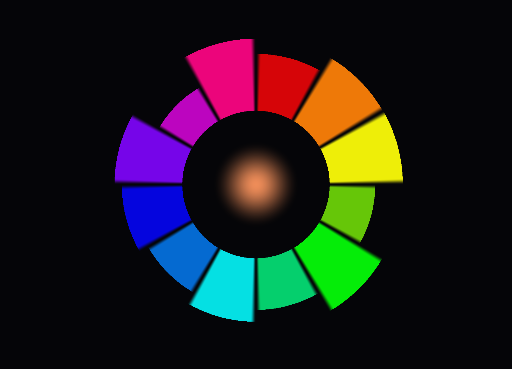
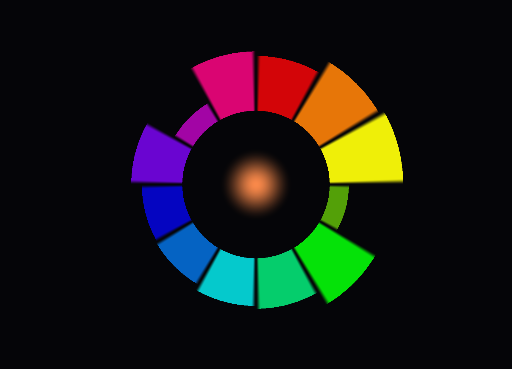
Web deploy: siljangnim.vercel.app runs the studio
- Root Directory studio, scene on siljangnim-scene.vercel.app (VITE_SCENE_ORIGIN), previews use the
  deployment URL as scene origin; .vercelignore limits CLI uploads to studio/ and examples/
- LLM function: one api/llm.js behind a rewrite (catch-all file names don't route in a Vite project)
- Meyda and Tone.js load as esm.sh bundles (the dependency chain was slow to arrive)
- docs: M3 complete; README web section

diff --git a/studio/server/llmForward.js b/studio/server/llmForward.js
@@ -2,7 +2,7 @@
 //
 // Used by the Vite dev server, by the desktop main process (which passes
 // `getKey` so API keys never reach the renderer) and by the web deploy's
-// function (api/llm/[...path].js, through webForward). Web-standard Request
+// function (api/llm.js, through webForward). Web-standard Request
 // in, Response out, streaming bodies passed straight through.
 //
 //   /api/llm/anthropic/<path>  → https://api.anthropic.com/<path>
@@ -91,6 +91,13 @@ export async function forwardLlmRequest(request, options = {}) {
  */
 export async function webForward(request) {
   const url = new URL(request.url);
+  // vercel.json rewrites /api/llm/<path> to this one function with ?__path=<path>.
+  const rewritten = url.searchParams.get("__path");
+  if (rewritten !== null) {
+    url.searchParams.delete("__path");
+    url.pathname = LLM_PREFIX + rewritten;
+    request = new Request(url, { method: request.method, headers: request.headers, body: request.method === "POST" ? await request.arrayBuffer() : undefined });
+  }
   const origin = request.headers.get("origin");
   const site = request.headers.get("sec-fetch-site");
   const sameOrigin = origin ? origin === url.origin : site === "same-origin";

diff --git a/studio/src/app/llmForward.test.ts b/studio/src/app/llmForward.test.ts
@@ -45,4 +45,13 @@ describe("web LLM forwarder", () => {
     const res = await forwardLlmRequest(request("openai/chat/completions", { "x-llm-base-url": "http://localhost:11434/v1" }));
     expect(res.status).toBe(200);
   });
+
+  it("takes the path the Vercel rewrite passes in __path, keeping other query parameters", async () => {
+    vi.stubGlobal("fetch", upstream);
+    const req = new Request("https://studio.example/api/llm?__path=anthropic/v1/messages&beta=true", { method: "POST", headers: { origin: "https://studio.example" }, body: "{}" });
+    expect((await webForward(req)).status).toBe(401); // routed; no key given
+    const withKey = new Request("https://studio.example/api/llm?__path=anthropic/v1/messages&beta=true", { method: "POST", headers: { origin: "https://studio.example", "x-api-key": "k" }, body: "{}" });
+    expect((await webForward(withKey)).status).toBe(200);
+    expect(String(upstream.mock.calls[0]![0])).toBe("https://api.anthropic.com/v1/messages?beta=true");
+  });
 });

diff --git a/studio/vite.config.ts b/studio/vite.config.ts
@@ -66,6 +66,13 @@ function devLlmProxy(): Plugin {
   };
 }
 
+// Vercel previews: the app is opened at the branch URL and the scene runs at the
+// deployment's own unique URL, so both come from the same build on different
+// origins. Production sets VITE_SCENE_ORIGIN to its scene domain (docs/m3.md).
+if (!process.env.VITE_SCENE_ORIGIN && process.env.VERCEL_ENV === "preview" && process.env.VERCEL_URL) {
+  process.env.VITE_SCENE_ORIGIN = `https://${process.env.VERCEL_URL}`;
+}
+
 export default defineConfig({
   plugins: [react(), tailwindcss(), sceneCspPlugin(), devLlmProxy()],
   server: {

diff --git a/studio/api/llm.js b/studio/api/llm.js
@@ -1,0 +1,7 @@
+// Vercel Function for the web deploy: the studio's LLM calls (/api/llm/<provider>/<path>,
+// rewritten here by vercel.json with the path in ?__path=).
+// Keys come from the person's browser with each request; nothing is stored here.
+import { webForward } from "../server/llmForward.js";
+
+export const GET = webForward;
+export const POST = webForward;

diff --git a/README.ko.md b/README.ko.md
@@ -71,8 +71,7 @@
 - **데스크톱 앱** — macOS(Apple Silicon)와 Windows. API 키는 OS 키체인으로 암호화되고 앱 화면에는
   전달되지 않습니다. Python 런타임은 앱이 직접 관리합니다.
 
-다음: 호스팅 웹 버전을 스튜디오로 전환([studio/vercel.json](studio/vercel.json)으로 준비됨,
-[docs/m3.md](docs/m3.md#4-웹-배포-준비))하고 v1을 은퇴합니다.
+웹 버전 [siljangnim.vercel.app](https://siljangnim.vercel.app/)도 이 스튜디오입니다([docs/m3.md](docs/m3.md#4-웹-배포-전환과-v1-은퇴)).
 
 ## 다운로드
 
@@ -159,9 +158,10 @@ docs/       아키텍처와 가이드
 
 ## 웹 버전
 
-[siljangnim.vercel.app](https://siljangnim.vercel.app/)에는 아직 v1 웹 앱이 배포되어 있습니다. 새 스튜디오도
-브라우저에서 돌아가며(`npm run web`), v1 기능을 따라잡으면 웹에도 배포합니다. 로컬 런타임이 필요한
-도구(Python 패키지, CLI 앱, GPU 모델)는 데스크톱 앱에서 쓰게 됩니다.
+[siljangnim.vercel.app](https://siljangnim.vercel.app/)에서 스튜디오를 브라우저로 씁니다. API 키는 직접 넣고,
+탭의 세션 저장소에만 두며 사이트의 전달 함수를 거쳐 모델 제공사로만 갑니다. 씬은 별도 도메인에서 돕니다.
+로컬 런타임이 필요한 도구(Python 패키지, CLI 앱, GPU 모델, OSC)는 데스크톱 앱이나 MCP 클라이언트에서 씁니다.
+v1 웹 앱은 은퇴했고, v1에서 내보낸 프로젝트는 *Import v1 project*로 엽니다.
 
 ## 비용과 보안
 

diff --git a/README.md b/README.md
@@ -77,8 +77,7 @@ In the new studio (desktop app and `npm run web`):
 - **Desktop app** — macOS (Apple Silicon) and Windows. API keys are encrypted with the OS keychain and
   never reach the app window; the app manages its own Python runtime.
 
-Next: switching the hosted web version to the studio (prepared in [studio/vercel.json](studio/vercel.json),
-see [docs/m3.md](docs/m3.md#4-웹-배포-준비)) and retiring v1.
+The web version at [siljangnim.vercel.app](https://siljangnim.vercel.app/) runs this studio ([docs/m3.md](docs/m3.md#4-웹-배포-전환과-v1-은퇴)).
 
 ## Download
 
@@ -166,10 +165,11 @@ docs/       Architecture and guides
 
 ## The web version
 
-[siljangnim.vercel.app](https://siljangnim.vercel.app/) still serves the v1 web app. The new
-studio also runs in a browser (`npm run web`); a hosted version follows once it reaches v1's
-features. Tools that need a local runtime (Python packages, CLI apps, GPU models) will need the
-desktop app.
+[siljangnim.vercel.app](https://siljangnim.vercel.app/) runs the studio in your browser, with your own
+API key (kept in the tab's session storage and sent only to the model provider through the site's
+forwarder). Scenes run on a separate domain. Tools that need a local runtime (Python packages, CLI
+apps, GPU models, OSC) need the desktop app or an MCP client. The v1 web app has been retired; open
+its project exports with *Import v1 project*.
 
 ## Costs and security
 

diff --git a/CLAUDE.md b/CLAUDE.md
@@ -43,7 +43,7 @@ Run `check`, `test` and `smoke` before every push; CI runs the same (Linux needs
 ## Invariants — don't break these
 
 - **Scene code is untrusted.** It runs only in the scene iframe on a separate origin (`app://scene`;
-  `127.0.0.1` vs `localhost` in dev) under the CSP in `studio/vite.config.ts`. Never run scene/agent
+  `127.0.0.1` vs `localhost` in dev; `siljangnim-scene.vercel.app` on the web, see `docs/m3.md`) under the CSP in `studio/vite.config.ts`. Never run scene/agent
   code in the app window, never pass secrets (API keys, hub token, forwarder token) into the iframe,
   and never add `allow-same-origin` to anything served from the app's origin.
 - **API keys stay in the desktop main process** (`desktop/src/keys.js`, safeStorage). The renderer
